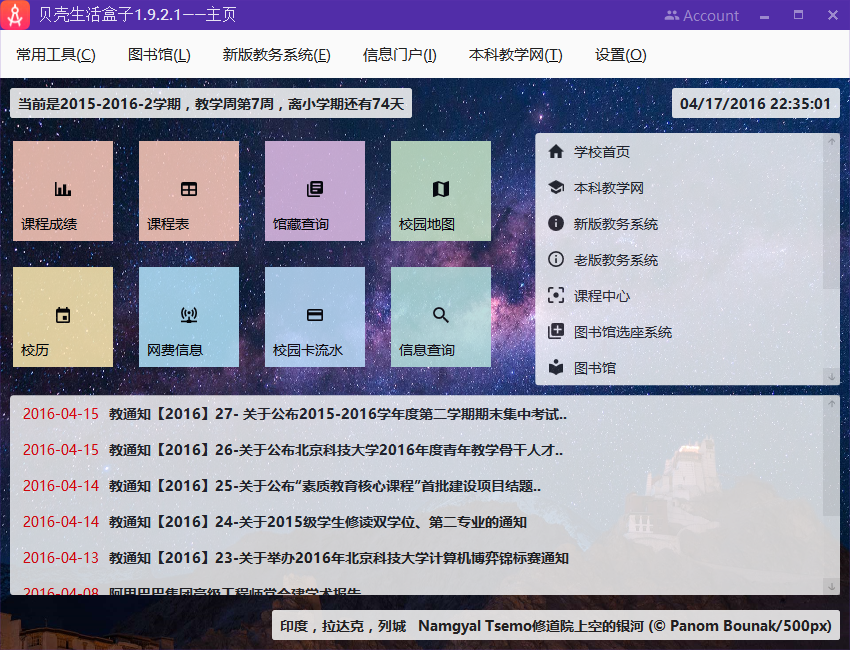
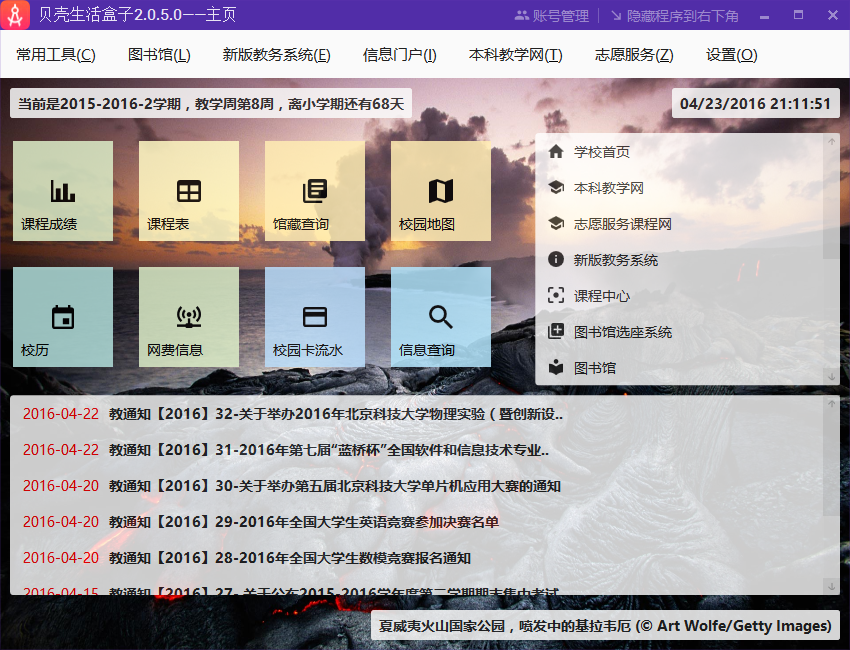
Site updated: 2016-04-23 21:13:46

diff --git a/2016/02/16/贝壳生活盒子/index.html b/2016/02/16/贝壳生活盒子/index.html
@@ -60,21 +60,21 @@
 
 
 
-<meta name="description" content="&amp;#x8D1D;&amp;#x5BA2;&amp;#x751F;&amp;#x6D3B;&amp;#x76D2;&amp;#x5B50;&amp;#x662F;&amp;#x60A8;&amp;#x7684;&amp;#x5317;&amp;#x79D1;&amp;#x751F;&amp;#x6D3B;&amp;#x4F34;&amp;#x4FA3;&amp;#x3002;
-&amp;#x6CE8;&amp;#x610F;&amp;#xFF0C;&amp;#x4F7F;&amp;#x7528;&amp;#x524D;&amp;#x9700;&amp;#x8981;&amp;#x5B89">
+<meta name="description" content="&amp;#x8D1D;&amp;#x5BA2;&amp;#x751F;&amp;#x6D3B;&amp;#x76D2;&amp;#x5B50;&amp;#x662F;&amp;#x60A8;&amp;#x6700;&amp;#x597D;&amp;#x7684;&amp;#x5317;&amp;#x79D1;&amp;#x751F;&amp;#x6D3B;&amp;#x4F34;&amp;#x4FA3;&amp;#x3002;
+&amp;#x6CE8;&amp;#x610F;&amp;#xFF0C;&amp;#x4F7F;&amp;#x7528;&amp;#x524D;&amp;#x9700">
 <meta property="og:type" content="article">
 <meta property="og:title" content="贝壳生活盒子">
 <meta property="og:url" content="http://auroradysis.com/2016/02/16/贝壳生活盒子/index.html">
 <meta property="og:site_name" content="AuroraDysis">
-<meta property="og:description" content="&amp;#x8D1D;&amp;#x5BA2;&amp;#x751F;&amp;#x6D3B;&amp;#x76D2;&amp;#x5B50;&amp;#x662F;&amp;#x60A8;&amp;#x7684;&amp;#x5317;&amp;#x79D1;&amp;#x751F;&amp;#x6D3B;&amp;#x4F34;&amp;#x4FA3;&amp;#x3002;
-&amp;#x6CE8;&amp;#x610F;&amp;#xFF0C;&amp;#x4F7F;&amp;#x7528;&amp;#x524D;&amp;#x9700;&amp;#x8981;&amp;#x5B89">
+<meta property="og:description" content="&amp;#x8D1D;&amp;#x5BA2;&amp;#x751F;&amp;#x6D3B;&amp;#x76D2;&amp;#x5B50;&amp;#x662F;&amp;#x60A8;&amp;#x6700;&amp;#x597D;&amp;#x7684;&amp;#x5317;&amp;#x79D1;&amp;#x751F;&amp;#x6D3B;&amp;#x4F34;&amp;#x4FA3;&amp;#x3002;
+&amp;#x6CE8;&amp;#x610F;&amp;#xFF0C;&amp;#x4F7F;&amp;#x7528;&amp;#x524D;&amp;#x9700">
 <meta property="og:image" content="http://auroradysis.com/2016/02/16/贝壳生活盒子/home.png">
 <meta property="og:image" content="http://auroradysis.com/2016/02/16/贝壳生活盒子/sponser.png">
-<meta property="og:updated_time" content="2016-04-17T14:41:48.747Z">
+<meta property="og:updated_time" content="2016-04-23T13:13:06.266Z">
 <meta name="twitter:card" content="summary">
 <meta name="twitter:title" content="贝壳生活盒子">
-<meta name="twitter:description" content="&amp;#x8D1D;&amp;#x5BA2;&amp;#x751F;&amp;#x6D3B;&amp;#x76D2;&amp;#x5B50;&amp;#x662F;&amp;#x60A8;&amp;#x7684;&amp;#x5317;&amp;#x79D1;&amp;#x751F;&amp;#x6D3B;&amp;#x4F34;&amp;#x4FA3;&amp;#x3002;
-&amp;#x6CE8;&amp;#x610F;&amp;#xFF0C;&amp;#x4F7F;&amp;#x7528;&amp;#x524D;&amp;#x9700;&amp;#x8981;&amp;#x5B89">
+<meta name="twitter:description" content="&amp;#x8D1D;&amp;#x5BA2;&amp;#x751F;&amp;#x6D3B;&amp;#x76D2;&amp;#x5B50;&amp;#x662F;&amp;#x60A8;&amp;#x6700;&amp;#x597D;&amp;#x7684;&amp;#x5317;&amp;#x79D1;&amp;#x751F;&amp;#x6D3B;&amp;#x4F34;&amp;#x4FA3;&amp;#x3002;
+&amp;#x6CE8;&amp;#x610F;&amp;#xFF0C;&amp;#x4F7F;&amp;#x7528;&amp;#x524D;&amp;#x9700">
 
 
 
@@ -335,7 +335,7 @@
       
 
       
-        <p>&#x8D1D;&#x5BA2;&#x751F;&#x6D3B;&#x76D2;&#x5B50;&#x662F;&#x60A8;&#x7684;&#x5317;&#x79D1;&#x751F;&#x6D3B;&#x4F34;&#x4FA3;&#x3002;</p>
+        <p>&#x8D1D;&#x5BA2;&#x751F;&#x6D3B;&#x76D2;&#x5B50;&#x662F;&#x60A8;&#x6700;&#x597D;&#x7684;&#x5317;&#x79D1;&#x751F;&#x6D3B;&#x4F34;&#x4FA3;&#x3002;</p>
 <p><strong>&#x6CE8;&#x610F;&#xFF0C;&#x4F7F;&#x7528;&#x524D;&#x9700;&#x8981;&#x5B89;&#x88C5;Microsoft .NET Framework 4.6.1&#xFF08;&#x7B80;&#x5355;&#x8BF4;&#x5C31;&#x662F;&#x5982;&#x679C;&#x6253;&#x4E0D;&#x5F00;&#x7684;&#x8BDD;&#x5C31;&#x88C5;&#x5B83;&#xFF09;</strong></p>
 <p><a href="http://ct.auroradysis.com/stable/Releases/Setup.exe" target="_blank" rel="external">&#x70B9;&#x51FB;&#x4E0B;&#x8F7D;</a></p>
 <p><strong>&#x8F6F;&#x4EF6;&#x53CD;&#x9988;QQ&#x7FA4;&#xFF1A;557093359</strong></p>
@@ -383,11 +383,24 @@
 </ul>
 </li>
 <li>
+<p>&#x5FD7;&#x613F;&#x8005;</p>
+<ul>
+<li>&#x4E2A;&#x4EBA;&#x4FE1;&#x606F;</li>
+<li>&#x5DE5;&#x65F6;&#x8BB0;&#x5F55;</li>
+</ul>
+</li>
+<li>
 <p>&#x4FE1;&#x606F;&#x95E8;&#x6237;</p>
 <ul>
 <li>&#x95E8;&#x6237;&#x9996;&#x9875;</li>
 <li>&#x6821;&#x56ED;&#x5361;&#x6D41;&#x6C34;</li>
 </ul>
+</li>
+<li>
+<p>&#x53EF;&#x4EE5;&#x9009;&#x62E9;&#x5F00;&#x673A;&#x542F;&#x52A8;&#x5E76;&#x81EA;&#x52A8;&#x767B;&#x5F55;&#x6821;&#x56ED;&#x7F51;</p>
+</li>
+<li>
+<p>&#x672C;&#x8F6F;&#x4EF6;&#x4F1A;&#x5728;&#x542F;&#x52A8;&#x65F6;&#x81EA;&#x52A8;&#x68C0;&#x67E5;&#x5E76;&#x4E0B;&#x8F7D;&#x66F4;&#x65B0;</p>
 </li>
 </ul>
 <p>&#x672C;&#x8F6F;&#x4EF6;&#x662F;&#x4E00;&#x4E2A;&#x5174;&#x8DA3;&#x8F6F;&#x4EF6;&#xFF0C;&#x6240;&#x4EE5;&#x6B22;&#x8FCE;&#x6350;&#x94B1;&#x6765;&#x652F;&#x6301;&#x4F5C;&#x8005;&#x5F00;&#x53D1;&#xFF0C;&#x626B;&#x63CF;&#x4E8C;&#x7EF4;&#x7801;&#x6765;&#x5411;&#x6211;&#x7684;&#x5FAE;&#x4FE1;&#x548C;&#x652F;&#x4ED8;&#x5B9D;&#x6350;&#x94B1;&#x3002;</p>

diff --git a/index.html b/index.html
@@ -448,7 +448,7 @@
       
         
           
-          &#x8D1D;&#x5BA2;&#x751F;&#x6D3B;&#x76D2;&#x5B50;&#x662F;&#x60A8;&#x7684;&#x5317;&#x79D1;&#x751F;&#x6D3B;&#x4F34;&#x4FA3;&#x3002;
+          &#x8D1D;&#x5BA2;&#x751F;&#x6D3B;&#x76D2;&#x5B50;&#x662F;&#x60A8;&#x6700;&#x597D;&#x7684;&#x5317;&#x79D1;&#x751F;&#x6D3B;&#x4F34;&#x4FA3;&#x3002;
 &#x6CE8;&#x610F;&#xFF0C;&#x4F7F;&#x7528;&#x524D;&#x9700;&#x8981;&#x5B89;&#x88C5;Microsoft .NET Framework 4.6.1&#xFF08;&#x7B80;&#x5355;&#x8BF4;&#x5C31;&#x662F;&#x5982;&#x679C;&#x6253;&#x4E0D;&#x5F00;&#x7684;&#x8BDD;&#x5C31;&#x88C5;&#x5B83;&#xFF09;
 &#x70B9;&#x51FB;&#x4E0B;&#x8F7D;
 &#x8F6F;&#x4EF6;&#x53CD;&#x9988;QQ&#x7FA4;&#xFF1A;557093359
@@ -463,7 +463,7 @@
 &#x4E00;&#x952E;&#x5F00;&#x542F;&#x5173;&#x95ED;WSUS&#x8865;&#x4E01;
 &#x5B66;&#x671F;&#x4FE1;&#x606F;
 &#x6821;&#x56ED;&#x5730;&#x56FE;
-&#x82F1;&#x8BED;&#x81EA
+&#x82F1
           ...
 
           <div class="post-more-link text-center">

diff --git a/css/main.css b/css/main.css
@@ -1528,7 +1528,7 @@ pre .javascript .function {
   width: 4px;
   height: 4px;
   border-radius: 50%;
-  background: #1134e7;
+  background: #88e5bd;
 }
 .sidebar-nav {
   margin: 0 0 20px;
